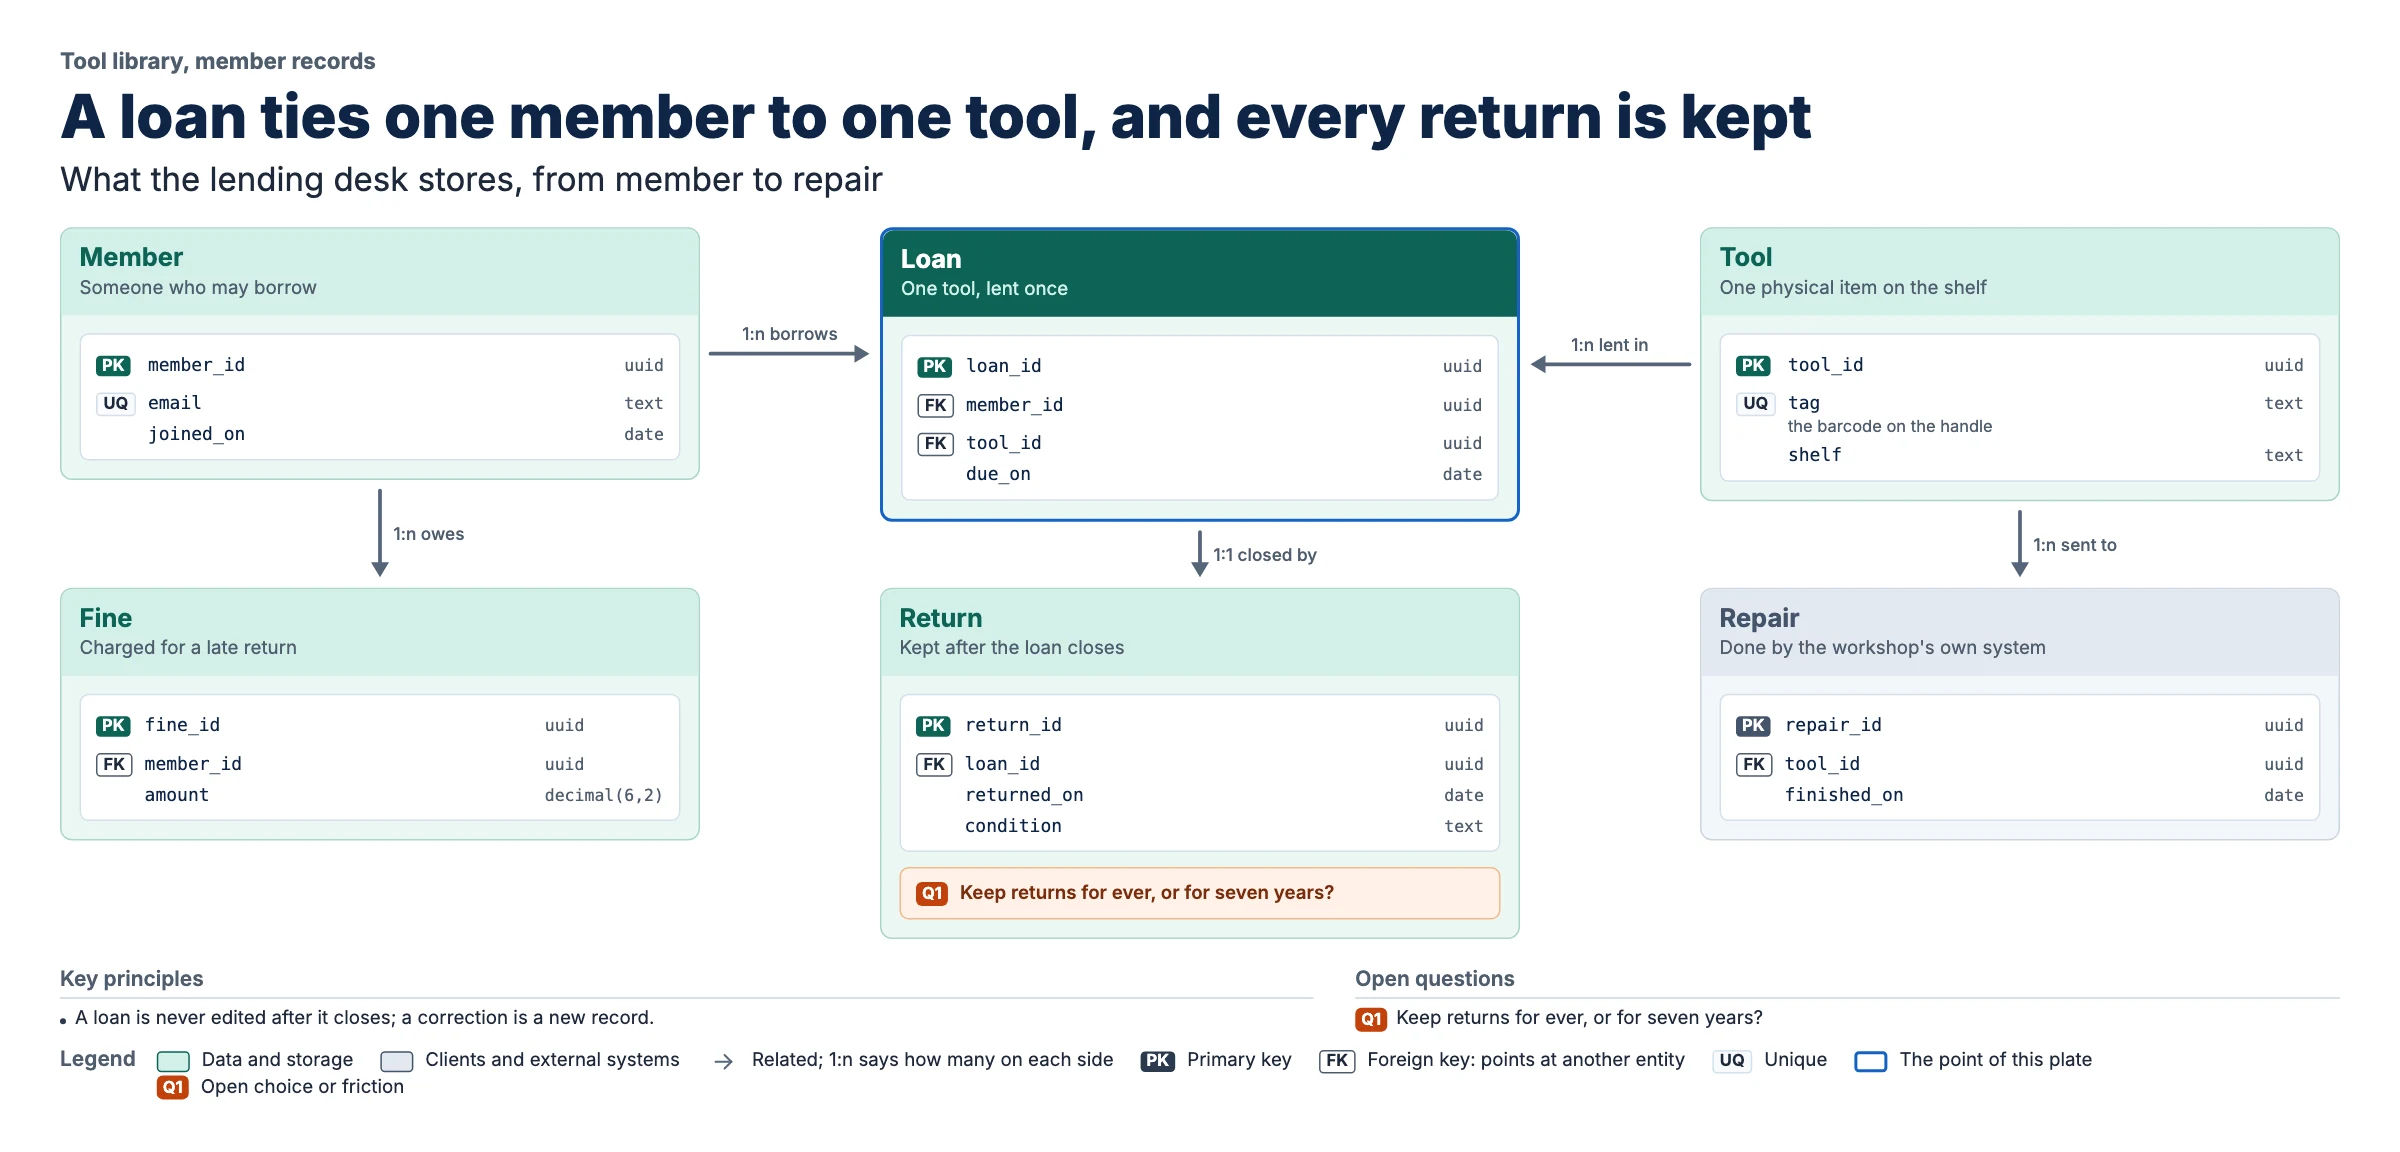
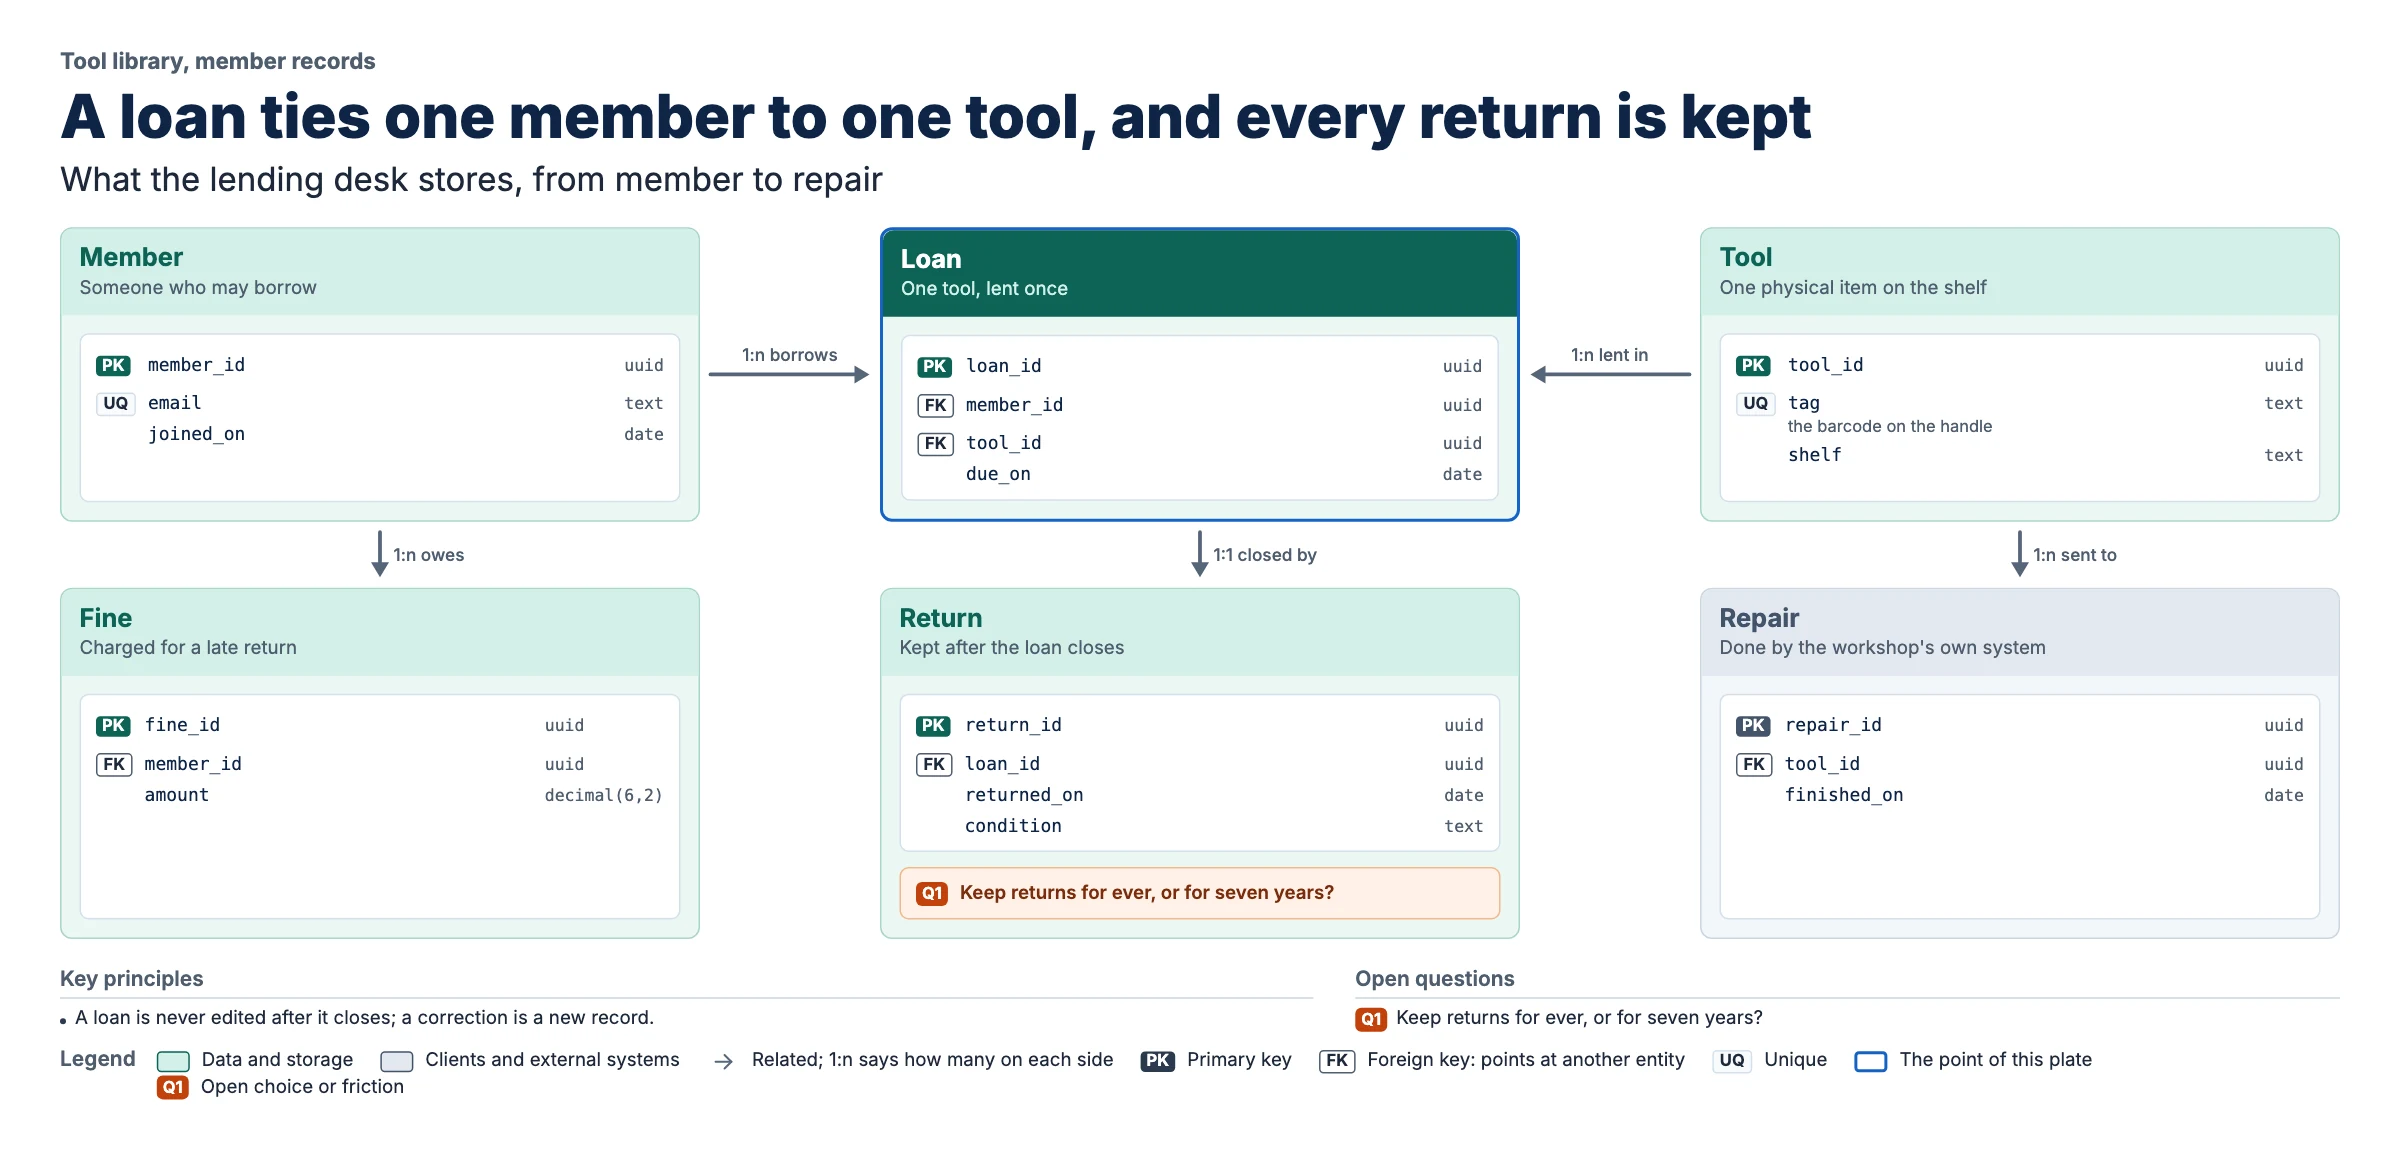
End the panels of a row level on trees, state machines and data models
The largest defect group in the last eval was holes, many of them a blank band under the shorter panels of a row. On these
layouts every panel now ends with its row: its cards or last block take up the height, and a panel of only a header is all
header. Visually, data-model entities in a row end level; no other example moved.

diff --git a/schemantic/js/fit.js b/schemantic/js/fit.js
@@ -4,7 +4,7 @@
 // panel.
 const EVEN_ROW_PX = 36;
 
-schemantic.fit = ({ mode, height, gaps, cap, minHeight, even }) => {
+schemantic.fit = ({ mode, height, gaps, cap, minHeight, even, level }) => {
   const plate = schemantic.plate();
   // A last row that does not fill the grid leaves a hole beside its last card: that card takes the rest of the row. Cards
   // a layout places itself (a column, a row) stay where they are, and so do grids whose rows must line up.
@@ -18,7 +18,8 @@ schemantic.fit = ({ mode, height, gaps, cap, minHeight, even }) => {
     if (over) cards[cards.length - 1].style.gridColumn = `span ${columns - over + 1}`;
   }
   // A panel a little shorter than the tallest beside it ends in a hole of its own: its cards take up the difference, when
-  // that adds little to each row. A much shorter panel stays as it is, and lint says so.
+  // that adds little to each row. A much shorter panel stays as it is, and lint says so, unless the layout's rows read as
+  // one line (level): there every panel ends with its row.
   const rowmates = [...plate.querySelectorAll("#body > .panel:not(.spread), .spoke-row > .panel")];
   const box = (el) => el.getBoundingClientRect();
   const tallest = rowmates.map((p) =>
@@ -30,8 +31,13 @@ schemantic.fit = ({ mode, height, gaps, cap, minHeight, even }) => {
   );
   rowmates.forEach((p, i) => {
     if (!even) return;
+    if (p.querySelector(".chips-bottom")) return;
+    if (level) {
+      if (tallest[i] - box(p).bottom > 1) p.classList.add("evened");
+      return;
+    }
     const grid = p.querySelector(":scope > .pb > .blocks > .cards");
-    if (!grid || p.querySelector(".chips-bottom")) return;
+    if (!grid) return;
     const rows = getComputedStyle(grid).gridTemplateRows.split(/\s+/).length;
     if (tallest[i] - box(p).bottom <= EVEN_ROW_PX * rows) p.classList.add("evened");
   });

diff --git a/schemantic/templates/components.css b/schemantic/templates/components.css
@@ -25,7 +25,8 @@ body { background: var(--paper); }
   border-radius: var(--r-panel); background: var(--body); }
 /* A panel ends with its content: empty space inside a frame reads as something missing, the same space outside it
    as rhythm. Panels spanning several rows (rails, side spokes) still fill them, and so do rows that pin their chips
-   to the bottom (layout.chips_at), which only line up in panels of one height. */
+   to the bottom (layout.chips_at), which only line up in panels of one height. A layout whose rows read as one line
+   ends them level (level_rows, in js/fit.js). */
 .body > .panel:not(.spread):not(:has(.chips-bottom)), .spoke-row > .panel:not(:has(.chips-bottom)) { align-self: start; }
 /* .role-<name> rules are generated from the role tokens (schemantic/roles.py), so a theme can add roles. */
 /* A row of spokes above or below the hub: its own grid, so the row divides the hub's width evenly */
@@ -70,6 +71,9 @@ body { background: var(--paper); }
 .body > .panel.evened, .spoke-row > .panel.evened { align-self: stretch !important; }
 .evened .blocks, .evened .blocks > .cards { flex: 1 1 auto; }
 .evened .blocks > .cards { align-content: stretch; }
+/* What cannot share out the height keeps it inside: the last block grows, and a panel of only a header is all header */
+.evened .blocks:not(.arrange-row, :has(> .cards)) > .blk:last-child { flex: 1 1 auto; }
+#body .panel.evened:not(:has(.blk, [data-kind="chip"])) > .ph { flex: 1 1 auto; }
 .chip { display: flex; gap: 8px; align-items: flex-start; border-radius: var(--r-card); padding: 8px 10px;
   font-size: var(--t-body); line-height: 1.35; font-weight: 600; }
 .chip .ic { width: 18px; height: 18px; }

diff --git a/tests/test_archetypes.py b/tests/test_archetypes.py
@@ -1,5 +1,7 @@
 """The layouts added after the first seven: each one's own checks, and what it derives from the spec."""
 import copy
+import json
+from pathlib import Path
 
 import pytest
 from conftest import ROOT, sp
@@ -228,3 +230,15 @@ def test_cardinality_belongs_on_a_data_model():
     spec = sp.load_spec(ROOT / "examples" / "orderplatform-toegang.yaml")
     spec["flows"][0]["cardinality"] = "1:n"
     assert any("cardinality belongs on a data-model" in f["detail"] for f in sp.check(spec))
+
+
+@pytest.mark.parametrize("name", ["platform-org-hierarchy", "harbour-permit-decision-tree", "ferry-booking-state-machine",
+                                  "tool-library-data-model"])
+def test_the_panels_of_a_row_end_level_where_rows_read_as_one_line(name, tmp_path):
+    spec = sp.load_spec(ROOT / "examples" / f"{name}.yaml")
+    rows = archetypes.get(spec["archetype"]).grid(spec).rows
+    tall = next(pid for pid in rows[-1] if pid != ".")
+    panel(spec, tall)["chips"] = [{"kind": "info", "text": "A note that makes this one panel taller than the panels beside it"}]
+    report = pipeline.build(write(tmp_path, spec, name), tmp_path, deliver=False)
+    boxes = json.loads(Path(report["snapshot"]).read_text(encoding="utf-8"))["boxes"]
+    assert len({boxes[pid][3] for pid in rows[-1] if pid != "."}) == 1

diff --git a/schemantic/browser.py b/schemantic/browser.py
@@ -65,11 +65,12 @@ def open_plate(browser, html: str, spec: dict, scale: float = 1, refused: list[s
     page.set_content(html)
     page.evaluate(fonts_ready())
     page.add_script_tag(content=page_scripts())
-    gaps = len(archetypes.get(spec["archetype"]).grid(spec).rows)  # row gutters plus the gap above the footer
+    arche = archetypes.get(spec["archetype"])
+    gaps = len(arche.grid(spec).rows)  # row gutters plus the gap above the footer
     # A slide keeps its 16:9 shape even when the content is short.
     min_height = round(width * 9 / 16) if spec["canvas"]["size"] == "landscape-16x9" else 0
     h = call(page, "fit", {"mode": height_mode(spec), "height": height, "gaps": gaps, "cap": GAP_CAP,
-                           "minHeight": min_height, "even": even})
+                           "minHeight": min_height, "even": even, "level": arche.level_rows})
     page.set_viewport_size({"width": math.ceil(width), "height": math.ceil(h)})
     call(page, "rails")
     call(page, "decorate")

diff --git a/schemantic/archetypes/__init__.py b/schemantic/archetypes/__init__.py
@@ -41,6 +41,7 @@ class Archetype:
     ends_on_panels: bool = False              # True when an arrow joins panels by rule, so it is never short of a card
     self_loops: bool = False                  # True when an arrow can leave a box and come back to it
     cards_are_things: bool = True             # False when cards are steps or verdicts, so their icons do not say who
+    level_rows: bool = False                  # True when the panels of a row read as one line, so they end level
 
     def placed(self, spec: dict) -> list[str]:
         """Panel ids as the layout names them, duplicates kept so they can be reported."""

diff --git a/schemantic/archetypes/state_machine.py b/schemantic/archetypes/state_machine.py
@@ -14,6 +14,7 @@ class StateMachine(ColumnFlow):
     required = frozenset({"areas", "start"})
     allowed = frozenset({"areas", "start", "ends", "column_widths", "chips_at"})
     self_loops = True
+    level_rows = True
     ends_on_panels = True
     legend_roles = False  # the colour says only whether a state is an end, which its tag says too
     cards_are_things = False

diff --git a/schemantic/archetypes/hierarchy.py b/schemantic/archetypes/hierarchy.py
@@ -14,6 +14,7 @@ class Hierarchy(Archetype):
     required = frozenset({"root", "children"})
     allowed = frozenset({"root", "children", "chips_at"})
     legend_keys = {"mean_control": "mean_leads"}
+    level_rows = True
 
     def children(self, spec: dict) -> dict[str, list[str]]:
         return spec["layout"]["children"]

diff --git a/schemantic/archetypes/data_model.py b/schemantic/archetypes/data_model.py
@@ -13,6 +13,7 @@ class DataModel(ColumnFlow):
     name = "data-model"
     relations = True
     ends_on_panels = True
+    level_rows = True
 
     def validate(self, spec: dict) -> list[dict]:
         return super().validate(spec) + [

diff --git a/docs/design-notes.md b/docs/design-notes.md
@@ -51,6 +51,8 @@ No coordinates does not mean the layout designs itself. Three parts decide three
   frame, and reviewers read it as missing content. The same space below a panel that ends with its content reads
   as rhythm, so panels now end with their content; only panels spanning rows still fill them, and a panel a little shorter
   than its row, whose cards take up the difference. A later eval found reviewers count a small gap beside a panel as a hole too.
+  On trees, state machines and data models a row reads as one line, and a blank band under its short panels was the most common
+  hole, so those rows end level whatever the difference; the height goes to the cards, not to an empty stretch of frame.
 - **Holes are the common defect, and the fix is content.** A density ratio missed panels that looked empty; the
   void check (the largest empty run inside a panel) matches what reviewers see. Most voids came from a fixed canvas
   dumping its spare height into one row, which `canvas.height: fit` removes.

diff --git a/references/review.md b/references/review.md
@@ -22,8 +22,8 @@ left to you.
    its cards' icons, and flags one thing in two colours; you judge the panels whose icons do not say (a team drawn with
    system icons).
 5. **Holes.** Is any part of the plate visibly empty: a panel emptier than its neighbours, cards floating apart, a
-   blank band? A last card fills its row and nearly level panels are evened out for you; lint (`void`) warns at 96 px;
-   a smaller hole you can see is still a defect.
+   blank band? A last card fills its row and nearly level panels are evened out for you (on trees, state machines and data
+   models, all panels in a row); lint (`void`) warns at 96 px; a smaller hole you can see is still a defect.
 6. **Footer.** Does the footer draw the eye before the body? Its size is lint's (`footer-share`).
 7. **Words.** Is any name a term the reader would not know, or any note true of every system rather than this one?
    (No check can.)

diff --git a/CHANGELOG.md b/CHANGELOG.md
@@ -5,6 +5,9 @@ All notable changes to this project. The format follows [Keep a Changelog](https
 ## [Unreleased]
 
 ### Changed
+- Panels in a row now end level on `hierarchy`, `decision-tree`, `state-machine` and `data-model`, however much shorter one is:
+  the last eval's largest defect group was holes, many of them a blank band under the shorter panels of a row. The cards or the
+  last block take up the height, and a panel of only a header is all header.
 - Every pattern now reaches the outline and the source checks, not only `table` and `fields`: tiers, steps, tree lines and matrix
   cells are in the `.md` and the SVG's description, and once a plate declares `sources`, each pattern needs `refs` or `assumed`.
   A plate with sources and older patterns gets new `traceability` warnings. A `tier-strip` also takes a `caption`.
